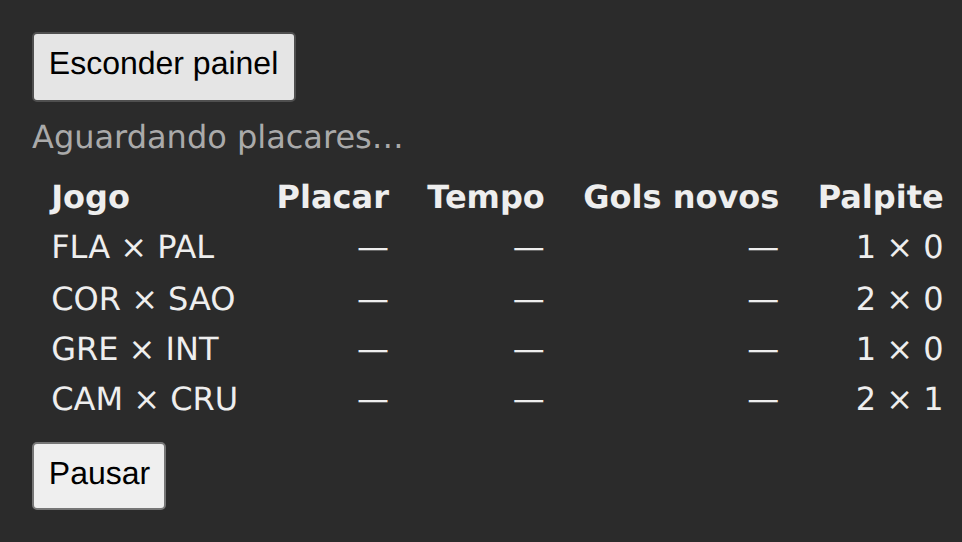
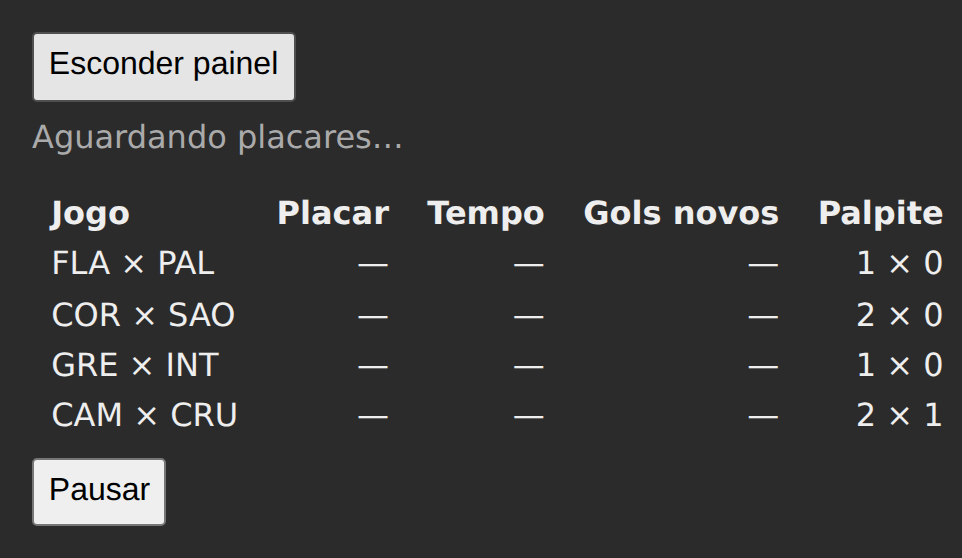
Mostra o "Atualizado há N s" no React dos Dados ao vivo
O React falha nas verificações do "Atualizado há" que a especificação
passou a pedir: não mostra há quanto tempo chegou o último lote, e o
painel não tem relógio para fechar ao sair da página.

A hora da chegada do lote e a do último tique viram estado, e o texto
se deriva das duas a cada renderização. O tique fica num efeito
próprio, sem dependências, separado do efeito da inscrição, que
depende de pausado: o relógio vive com o painel, e a limpeza o para só
ao sair da tela. Na chegada do lote, o agora ainda é o do último
tique, e a conta pode dar negativa; o piso de 0 do formatarAtualizacao
cobre esse caso.

Conferido: o teste de conformidade passa nas 19 verificações, no
Chromium; com o efeito do relógio sem devolver a limpeza, falham 2, 3,
9 e 11, e sem o setChegada, as quatro do "Atualizado há". As capturas
saem iguais às do Web Component, byte a byte.

Refs: tcc-51hf

diff --git a/implementacoes/dados-ao-vivo/react/src/main.tsx b/implementacoes/dados-ao-vivo/react/src/main.tsx
@@ -4,6 +4,8 @@ import {
   JOGOS,
   MENSAGENS,
   inscreverNosPlacares,
+  iniciarRelogio,
+  formatarAtualizacao,
   formatarPlacar,
   formatarTempo,
   golsNovos,
@@ -16,14 +18,22 @@ function PainelDePlacares() {
   const [pausado, setPausado] = useState(false);
   // Os dois últimos lotes: o atual dá o placar, o anterior, os gols novos.
   const [lotes, setLotes] = useState<{ anterior?: Lote; atual?: Lote }>({});
+  // A hora em que chegou o último lote e a do último tique do relógio.
+  const [chegada, setChegada] = useState<number>();
+  const [agora, setAgora] = useState(Date.now);
 
   // A limpeza cancela a inscrição ao pausar e ao sair da tela.
   useEffect(() => {
     if (pausado) return;
-    return inscreverNosPlacares((lote) =>
-      setLotes(({ atual }) => ({ anterior: atual, atual: lote })),
-    );
+    return inscreverNosPlacares((lote) => {
+      setLotes(({ atual }) => ({ anterior: atual, atual: lote }));
+      setChegada(Date.now());
+    });
   }, [pausado]);
+
+  // O relógio vive com o painel, e não com a inscrição: sem dependências, a
+  // limpeza o para só ao sair da tela.
+  useEffect(() => iniciarRelogio(() => setAgora(Date.now())), []);
 
   const situacao = pausado
     ? MENSAGENS.pausado
@@ -36,6 +46,7 @@ function PainelDePlacares() {
       <p className="situacao" role="status">
         {situacao}
       </p>
+      <p className="atualizacao">{formatarAtualizacao(chegada, agora)}</p>
       <table>
         <thead>
           <tr>
